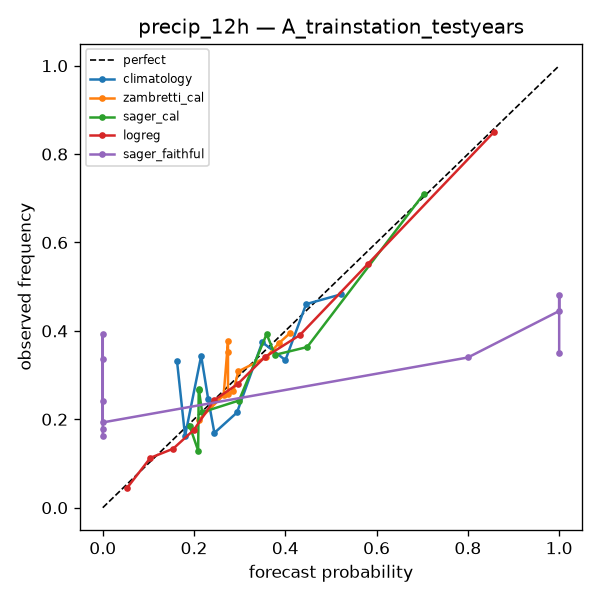
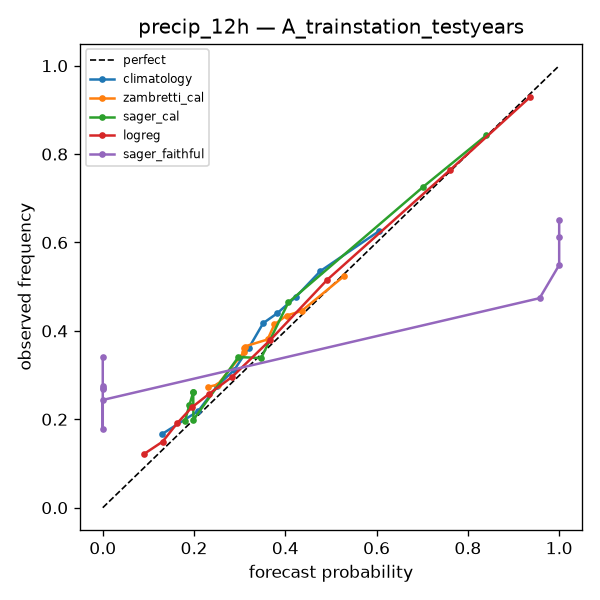
Milestone 1: 52-station dataset + full baseline scores + report
Dataset: 3.5M train / 750k test examples, 52 stations x 1990-2024.
Headline (BSS vs station climatology, test years 2020-24): logreg
0.15-0.33; calibrated Sager +0.21 (6h) decaying to +0.05 (24h) on precip;
calibrated Zambretti ~0; persistence negative beyond 6h. Categorical
Heidke: Sager 0.12-0.16, Zambretti 0.05-0.06, persistence 0.23-0.28.
No leakage tripwires. Schema fix: empty station-years now write full
column set.

diff --git a/src/neosager/data/regularize.py b/src/neosager/data/regularize.py
@@ -39,7 +39,18 @@ def to_hourly(reports: pd.DataFrame, year: int, cfg: IngestCfg
     idx = pd.date_range(f"{year}-01-01", f"{year}-12-31 23:00",
                         freq="h", tz="UTC")
     if reports.empty:
+        # full schema even when empty — a column-less frame would poison
+        # cross-year concatenation with NaNs in the string columns
         hourly = pd.DataFrame(index=idx)
+        for c in _SCALARS + ["wind_dir_deg", "wind_speed_ms",
+                             "precip_1h_mm"]:
+            hourly[c] = np.nan
+        hourly["wind_variable"] = False
+        hourly["precip_trace"] = False
+        for c in ["aw_codes", "mw_codes", "au_precip_codes",
+                  "ga_cloud_types"]:
+            hourly[c] = ""
+        hourly["n_reports"] = 0
         return hourly, {"hours_expected": len(idx), "hours_with_data": 0,
                         "coverage_pressure": 0.0, "coverage_ma1": 0.0,
                         "coverage_wind": 0.0, "coverage_sky": 0.0,

diff --git a/src/neosager/dataset.py b/src/neosager/dataset.py
@@ -39,7 +39,15 @@ def load_station_hourly(cfg: Config, station: str) -> pd.DataFrame | None:
             frames.append(pd.read_parquet(p))
     if not frames:
         return None
-    return pd.concat(frames).sort_index()
+    out = pd.concat(frames).sort_index()
+    # normalize schema across years (older parquets from empty station-years
+    # can lack columns entirely -> NaNs after concat)
+    for c in ["aw_codes", "mw_codes", "au_precip_codes", "ga_cloud_types"]:
+        out[c] = out[c].fillna("") if c in out.columns else ""
+    for c, fill in [("precip_trace", False), ("wind_variable", False),
+                    ("n_reports", 0)]:
+        out[c] = out[c].fillna(fill) if c in out.columns else fill
+    return out
 
 
 def build_station_dataset(cfg: Config, station_row: dict,

diff --git a/reports/milestone1_report.md b/reports/milestone1_report.md
@@ -1,0 +1,200 @@
+# milestone1_report
+
+## Headline: BSS vs station climatology (cell A: train stations, [phone redacted])
+
+| target     |   climatology |   logreg |   persistence |   sager_cal |   sager_faithful |   zambretti_cal |
+|:-----------|--------------:|---------:|--------------:|------------:|-----------------:|----------------:|
+| pfall_12h  |         0.000 |    0.107 |        -0.608 |      -0.111 |          nan     |          -0.077 |
+| pfall_24h  |         0.000 |    0.064 |        -0.762 |      -0.115 |          nan     |          -0.096 |
+| pfall_6h   |         0.000 |    0.156 |        -0.918 |      -0.098 |          nan     |          -0.020 |
+| precip_12h |         0.000 |    0.232 |        -0.185 |       0.131 |           -0.481 |          -0.058 |
+| precip_24h |         0.000 |    0.149 |        -0.681 |       0.053 |           -0.610 |          -0.073 |
+| precip_6h  |         0.000 |    0.327 |         0.109 |       0.212 |           -0.602 |          -0.051 |
+| windup_12h |         0.000 |    0.324 |        -0.664 |       0.016 |           -1.039 |          -0.012 |
+| windup_24h |         0.000 |    0.283 |        -1.138 |       0.007 |           -1.100 |          -0.016 |
+| windup_6h  |         0.000 |    0.281 |        -0.362 |       0.014 |           -1.272 |          -0.008 |
+
+## Categorical skill (Heidke / Peirce)
+
+| cell                     | target   | model       |   brier |   bss |   auc |      n |   bss_lo |   bss_hi |   heidke |   peirce |
+|:-------------------------|:---------|:------------|--------:|------:|------:|-------:|---------:|---------:|---------:|---------:|
+| A_trainstation_testyears | cond_12h | persistence |     nan |   nan |   nan | 670280 |      nan |      nan |    0.279 |    0.273 |
+| A_trainstation_testyears | cond_12h | zambretti   |     nan |   nan |   nan | 667341 |      nan |      nan |    0.062 |    0.058 |
+| A_trainstation_testyears | cond_12h | sager       |     nan |   nan |   nan | 632314 |      nan |      nan |    0.145 |    0.157 |
+| A_trainstation_testyears | cond_24h | persistence |     nan |   nan |   nan | 670545 |      nan |      nan |    0.234 |    0.229 |
+| A_trainstation_testyears | cond_24h | zambretti   |     nan |   nan |   nan | 667606 |      nan |      nan |    0.046 |    0.043 |
+| A_trainstation_testyears | cond_24h | sager       |     nan |   nan |   nan | 632462 |      nan |      nan |    0.120 |    0.130 |
+| C_teststation_testyears  | cond_12h | persistence |     nan |   nan |   nan |  90276 |      nan |      nan |    0.266 |    0.263 |
+| C_teststation_testyears  | cond_12h | zambretti   |     nan |   nan |   nan |  90112 |      nan |      nan |    0.038 |    0.036 |
+| C_teststation_testyears  | cond_12h | sager       |     nan |   nan |   nan |  87254 |      nan |      nan |    0.116 |    0.128 |
+| C_teststation_testyears  | cond_24h | persistence |     nan |   nan |   nan |  90265 |      nan |      nan |    0.232 |    0.229 |
+| C_teststation_testyears  | cond_24h | zambretti   |     nan |   nan |   nan |  90103 |      nan |      nan |    0.038 |    0.036 |
+| C_teststation_testyears  | cond_24h | sager       |     nan |   nan |   nan |  87248 |      nan |      nan |    0.095 |    0.105 |
+| B_teststation_trainyears | cond_12h | persistence |     nan |   nan |   nan | 440463 |      nan |      nan |    0.195 |    0.185 |
+| B_teststation_trainyears | cond_12h | zambretti   |     nan |   nan |   nan | 435296 |      nan |      nan |    0.030 |    0.029 |
+| B_teststation_trainyears | cond_12h | sager       |     nan |   nan |   nan | 288422 |      nan |      nan |    0.118 |    0.133 |
+| B_teststation_trainyears | cond_24h | persistence |     nan |   nan |   nan | 442262 |      nan |      nan |    0.168 |    0.159 |
+| B_teststation_trainyears | cond_24h | zambretti   |     nan |   nan |   nan | 437079 |      nan |      nan |    0.027 |    0.026 |
+| B_teststation_trainyears | cond_24h | sager       |     nan |   nan |   nan | 289165 |      nan |      nan |    0.092 |    0.104 |
+
+## Reliability (headline cell)
+
+![](reports/figures/reliability_precip12_A_trainstation_testyears.png)
+
+## All cells (full table)
+
+| cell                     | target     | model          |   brier |    bss |   auc |      n |   bss_lo |   bss_hi |   heidke |   peirce |
+|:-------------------------|:-----------|:---------------|--------:|-------:|------:|-------:|---------:|---------:|---------:|---------:|
+| A_trainstation_testyears | precip_6h  | climatology    |   0.190 |  0.000 | 0.664 | 669057 |  nan     |  nan     |      nan |      nan |
+| A_trainstation_testyears | precip_6h  | persistence    |   0.169 |  0.109 | 0.721 | 669057 |  nan     |  nan     |      nan |      nan |
+| A_trainstation_testyears | precip_6h  | zambretti_cal  |   0.199 | -0.051 | 0.579 | 666221 |   -0.055 |   -0.046 |      nan |      nan |
+| A_trainstation_testyears | precip_6h  | sager_cal      |   0.151 |  0.212 | 0.771 | 631162 |    0.207 |    0.217 |      nan |      nan |
+| A_trainstation_testyears | precip_6h  | logreg         |   0.128 |  0.327 | 0.833 | 669057 |    0.323 |    0.332 |      nan |      nan |
+| A_trainstation_testyears | precip_6h  | sager_faithful |   0.307 | -0.602 | 0.682 | 631162 |  nan     |  nan     |      nan |      nan |
+| A_trainstation_testyears | precip_12h | climatology    |   0.219 |  0.000 | 0.666 | 669382 |  nan     |  nan     |      nan |      nan |
+| A_trainstation_testyears | precip_12h | persistence    |   0.260 | -0.185 | 0.668 | 669382 |  nan     |  nan     |      nan |      nan |
+| A_trainstation_testyears | precip_12h | zambretti_cal  |   0.232 | -0.058 | 0.585 | 666492 |   -0.063 |   -0.052 |      nan |      nan |
+| A_trainstation_testyears | precip_12h | sager_cal      |   0.192 |  0.131 | 0.730 | 631518 |    0.126 |    0.136 |      nan |      nan |
+| A_trainstation_testyears | precip_12h | logreg         |   0.168 |  0.232 | 0.793 | 669382 |    0.227 |    0.237 |      nan |      nan |
+| A_trainstation_testyears | precip_12h | sager_faithful |   0.326 | -0.481 | 0.658 | 631518 |  nan     |  nan     |      nan |      nan |
+| A_trainstation_testyears | precip_24h | climatology    |   0.228 |  0.000 | 0.676 | 668829 |  nan     |  nan     |      nan |      nan |
+| A_trainstation_testyears | precip_24h | persistence    |   0.384 | -0.681 | 0.629 | 668829 |  nan     |  nan     |      nan |      nan |
+| A_trainstation_testyears | precip_24h | zambretti_cal  |   0.245 | -0.073 | 0.587 | 666074 |   -0.079 |   -0.065 |      nan |      nan |
+| A_trainstation_testyears | precip_24h | sager_cal      |   0.216 |  0.053 | 0.696 | 631213 |    0.047 |    0.060 |      nan |      nan |
+| A_trainstation_testyears | precip_24h | logreg         |   0.194 |  0.149 | 0.765 | 668829 |    0.144 |    0.155 |      nan |      nan |
+| A_trainstation_testyears | precip_24h | sager_faithful |   0.368 | -0.610 | 0.637 | 631213 |  nan     |  nan     |      nan |      nan |
+| A_trainstation_testyears | windup_6h  | climatology    |   0.188 |  0.000 | 0.579 | 661937 |  nan     |  nan     |      nan |      nan |
+| A_trainstation_testyears | windup_6h  | persistence    |   0.256 | -0.362 | 0.500 | 661937 |  nan     |  nan     |      nan |      nan |
+| A_trainstation_testyears | windup_6h  | zambretti_cal  |   0.189 | -0.008 | 0.555 | 659133 |   -0.009 |   -0.007 |      nan |      nan |
+| A_trainstation_testyears | windup_6h  | sager_cal      |   0.183 |  0.014 | 0.601 | 629495 |    0.012 |    0.015 |      nan |      nan |
+| A_trainstation_testyears | windup_6h  | logreg         |   0.135 |  0.281 | 0.823 | 661937 |    0.277 |    0.285 |      nan |      nan |
+| A_trainstation_testyears | windup_6h  | sager_faithful |   0.422 | -1.272 | 0.500 | 629495 |  nan     |  nan     |      nan |      nan |
+| A_trainstation_testyears | windup_12h | climatology    |   0.234 |  0.000 | 0.578 | 663278 |  nan     |  nan     |      nan |      nan |
+| A_trainstation_testyears | windup_12h | persistence    |   0.389 | -0.664 | 0.500 | 663278 |  nan     |  nan     |      nan |      nan |
+| A_trainstation_testyears | windup_12h | zambretti_cal  |   0.236 | -0.012 | 0.542 | 660425 |   -0.013 |   -0.011 |      nan |      nan |
+| A_trainstation_testyears | windup_12h | sager_cal      |   0.230 |  0.016 | 0.601 | 630557 |    0.014 |    0.017 |      nan |      nan |
+| A_trainstation_testyears | windup_12h | logreg         |   0.158 |  0.324 | 0.832 | 663278 |    0.320 |    0.328 |      nan |      nan |
+| A_trainstation_testyears | windup_12h | sager_faithful |   0.476 | -1.039 | 0.488 | 630557 |  nan     |  nan     |      nan |      nan |
+| A_trainstation_testyears | windup_24h | climatology    |   0.245 |  0.000 | 0.580 | 662910 |  nan     |  nan     |      nan |      nan |
+| A_trainstation_testyears | windup_24h | persistence    |   0.523 | -1.138 | 0.500 | 662910 |  nan     |  nan     |      nan |      nan |
+| A_trainstation_testyears | windup_24h | zambretti_cal  |   0.249 | -0.016 | 0.537 | 660165 |   -0.017 |   -0.015 |      nan |      nan |
+| A_trainstation_testyears | windup_24h | sager_cal      |   0.243 |  0.007 | 0.592 | 630378 |    0.006 |    0.009 |      nan |      nan |
+| A_trainstation_testyears | windup_24h | logreg         |   0.175 |  0.283 | 0.811 | 662910 |    0.280 |    0.287 |      nan |      nan |
+| A_trainstation_testyears | windup_24h | sager_faithful |   0.514 | -1.100 | 0.493 | 630378 |  nan     |  nan     |      nan |      nan |
+| A_trainstation_testyears | pfall_6h   | climatology    |   0.105 |  0.000 | 0.788 | 667575 |  nan     |  nan     |      nan |      nan |
+| A_trainstation_testyears | pfall_6h   | persistence    |   0.202 | -0.918 | 0.695 | 667575 |  nan     |  nan     |      nan |      nan |
+| A_trainstation_testyears | pfall_6h   | zambretti_cal  |   0.108 | -0.020 | 0.694 | 664824 |   -0.024 |   -0.016 |      nan |      nan |
+| A_trainstation_testyears | pfall_6h   | sager_cal      |   0.116 | -0.098 | 0.656 | 629889 |   -0.102 |   -0.092 |      nan |      nan |
+| A_trainstation_testyears | pfall_6h   | logreg         |   0.089 |  0.156 | 0.851 | 667575 |    0.152 |    0.160 |      nan |      nan |
+| A_trainstation_testyears | pfall_12h  | climatology    |   0.169 |  0.000 | 0.737 | 668217 |  nan     |  nan     |      nan |      nan |
+| A_trainstation_testyears | pfall_12h  | persistence    |   0.272 | -0.608 | 0.622 | 668217 |  nan     |  nan     |      nan |      nan |
+| A_trainstation_testyears | pfall_12h  | zambretti_cal  |   0.182 | -0.077 | 0.634 | 665424 |   -0.081 |   -0.073 |      nan |      nan |
+| A_trainstation_testyears | pfall_12h  | sager_cal      |   0.188 | -0.111 | 0.624 | 630539 |   -0.116 |   -0.105 |      nan |      nan |
+| A_trainstation_testyears | pfall_12h  | logreg         |   0.151 |  0.107 | 0.790 | 668217 |    0.103 |    0.111 |      nan |      nan |
+| A_trainstation_testyears | pfall_24h  | climatology    |   0.210 |  0.000 | 0.717 | 667597 |  nan     |  nan     |      nan |      nan |
+| A_trainstation_testyears | pfall_24h  | persistence    |   0.370 | -0.762 | 0.587 | 667597 |  nan     |  nan     |      nan |      nan |
+| A_trainstation_testyears | pfall_24h  | zambretti_cal  |   0.230 | -0.096 | 0.627 | 664978 |   -0.101 |   -0.091 |      nan |      nan |
+| A_trainstation_testyears | pfall_24h  | sager_cal      |   0.234 | -0.115 | 0.617 | 630225 |   -0.122 |   -0.109 |      nan |      nan |
+| A_trainstation_testyears | pfall_24h  | logreg         |   0.196 |  0.064 | 0.756 | 667597 |    0.059 |    0.069 |      nan |      nan |
+| C_teststation_testyears  | precip_6h  | climatology    |   0.203 |  0.000 | 0.597 |  90203 |  nan     |  nan     |      nan |      nan |
+| C_teststation_testyears  | precip_6h  | persistence    |   0.179 |  0.120 | 0.715 |  90203 |  nan     |  nan     |      nan |      nan |
+| C_teststation_testyears  | precip_6h  | zambretti_cal  |   0.211 | -0.038 | 0.525 |  90044 |  nan     |  nan     |      nan |      nan |
+| C_teststation_testyears  | precip_6h  | sager_cal      |   0.165 |  0.193 | 0.742 |  87193 |  nan     |  nan     |      nan |      nan |
+| C_teststation_testyears  | precip_6h  | logreg         |   0.140 |  0.310 | 0.812 |  90203 |  nan     |  nan     |      nan |      nan |
+| C_teststation_testyears  | precip_6h  | sager_faithful |   0.363 | -0.773 | 0.635 |  87193 |  nan     |  nan     |      nan |      nan |
+| C_teststation_testyears  | precip_12h | climatology    |   0.238 |  0.000 | 0.593 |  90234 |  nan     |  nan     |      nan |      nan |
+| C_teststation_testyears  | precip_12h | persistence    |   0.278 | -0.169 | 0.661 |  90234 |  nan     |  nan     |      nan |      nan |
+| C_teststation_testyears  | precip_12h | zambretti_cal  |   0.245 | -0.030 | 0.538 |  90072 |  nan     |  nan     |      nan |      nan |
+| C_teststation_testyears  | precip_12h | sager_cal      |   0.208 |  0.129 | 0.696 |  87217 |  nan     |  nan     |      nan |      nan |
+| C_teststation_testyears  | precip_12h | logreg         |   0.186 |  0.219 | 0.763 |  90234 |  nan     |  nan     |      nan |      nan |
+| C_teststation_testyears  | precip_12h | sager_faithful |   0.377 | -0.578 | 0.616 |  87217 |  nan     |  nan     |      nan |      nan |
+| C_teststation_testyears  | precip_24h | climatology    |   0.247 |  0.000 | 0.600 |  90199 |  nan     |  nan     |      nan |      nan |
+| C_teststation_testyears  | precip_24h | persistence    |   0.414 | -0.676 | 0.622 |  90199 |  nan     |  nan     |      nan |      nan |
+| C_teststation_testyears  | precip_24h | zambretti_cal  |   0.253 | -0.023 | 0.549 |  90037 |  nan     |  nan     |      nan |      nan |
+| C_teststation_testyears  | precip_24h | sager_cal      |   0.227 |  0.079 | 0.665 |  87190 |  nan     |  nan     |      nan |      nan |
+| C_teststation_testyears  | precip_24h | logreg         |   0.211 |  0.144 | 0.727 |  90199 |  nan     |  nan     |      nan |      nan |
+| C_teststation_testyears  | precip_24h | sager_faithful |   0.406 | -0.642 | 0.602 |  87190 |  nan     |  nan     |      nan |      nan |
+| C_teststation_testyears  | windup_6h  | climatology    |   0.191 |  0.000 | 0.572 |  89920 |  nan     |  nan     |      nan |      nan |
+| C_teststation_testyears  | windup_6h  | persistence    |   0.263 | -0.371 | 0.500 |  89920 |  nan     |  nan     |      nan |      nan |
+| C_teststation_testyears  | windup_6h  | zambretti_cal  |   0.193 | -0.006 | 0.558 |  89761 |  nan     |  nan     |      nan |      nan |
+| C_teststation_testyears  | windup_6h  | sager_cal      |   0.185 |  0.020 | 0.613 |  87108 |  nan     |  nan     |      nan |      nan |
+| C_teststation_testyears  | windup_6h  | logreg         |   0.140 |  0.267 | 0.810 |  89920 |  nan     |  nan     |      nan |      nan |
+| C_teststation_testyears  | windup_6h  | sager_faithful |   0.437 | -1.314 | 0.507 |  87108 |  nan     |  nan     |      nan |      nan |
+| C_teststation_testyears  | windup_12h | climatology    |   0.236 |  0.000 | 0.574 |  89984 |  nan     |  nan     |      nan |      nan |
+| C_teststation_testyears  | windup_12h | persistence    |   0.397 | -0.687 | 0.500 |  89984 |  nan     |  nan     |      nan |      nan |
+| C_teststation_testyears  | windup_12h | zambretti_cal  |   0.239 | -0.013 | 0.541 |  89822 |  nan     |  nan     |      nan |      nan |
+| C_teststation_testyears  | windup_12h | sager_cal      |   0.230 |  0.022 | 0.611 |  87162 |  nan     |  nan     |      nan |      nan |
+| C_teststation_testyears  | windup_12h | logreg         |   0.165 |  0.298 | 0.817 |  89984 |  nan     |  nan     |      nan |      nan |
+| C_teststation_testyears  | windup_12h | sager_faithful |   0.493 | -1.101 | 0.480 |  87162 |  nan     |  nan     |      nan |      nan |
+| C_teststation_testyears  | windup_24h | climatology    |   0.244 |  0.000 | 0.576 |  89952 |  nan     |  nan     |      nan |      nan |
+| C_teststation_testyears  | windup_24h | persistence    |   0.536 | -1.196 | 0.500 |  89952 |  nan     |  nan     |      nan |      nan |
+| C_teststation_testyears  | windup_24h | zambretti_cal  |   0.249 | -0.019 | 0.531 |  89790 |  nan     |  nan     |      nan |      nan |
+| C_teststation_testyears  | windup_24h | sager_cal      |   0.242 |  0.012 | 0.604 |  87134 |  nan     |  nan     |      nan |      nan |
+| C_teststation_testyears  | windup_24h | logreg         |   0.181 |  0.258 | 0.801 |  89952 |  nan     |  nan     |      nan |      nan |
+| C_teststation_testyears  | windup_24h | sager_faithful |   0.534 | -1.181 | 0.474 |  87134 |  nan     |  nan     |      nan |      nan |
+| C_teststation_testyears  | pfall_6h   | climatology    |   0.137 |  0.000 | 0.689 |  90142 |  nan     |  nan     |      nan |      nan |
+| C_teststation_testyears  | pfall_6h   | persistence    |   0.239 | -0.744 | 0.683 |  90142 |  nan     |  nan     |      nan |      nan |
+| C_teststation_testyears  | pfall_6h   | zambretti_cal  |   0.133 |  0.029 | 0.680 |  89984 |  nan     |  nan     |      nan |      nan |
+| C_teststation_testyears  | pfall_6h   | sager_cal      |   0.139 | -0.024 | 0.673 |  87140 |  nan     |  nan     |      nan |      nan |
+| C_teststation_testyears  | pfall_6h   | logreg         |   0.111 |  0.188 | 0.832 |  90142 |  nan     |  nan     |      nan |      nan |
+| C_teststation_testyears  | pfall_12h  | climatology    |   0.211 |  0.000 | 0.633 |  90188 |  nan     |  nan     |      nan |      nan |
+| C_teststation_testyears  | pfall_12h  | persistence    |   0.330 | -0.567 | 0.601 |  90188 |  nan     |  nan     |      nan |      nan |
+| C_teststation_testyears  | pfall_12h  | zambretti_cal  |   0.214 | -0.016 | 0.630 |  90028 |  nan     |  nan     |      nan |      nan |
+| C_teststation_testyears  | pfall_12h  | sager_cal      |   0.216 | -0.025 | 0.641 |  87177 |  nan     |  nan     |      nan |      nan |
+| C_teststation_testyears  | pfall_12h  | logreg         |   0.173 |  0.179 | 0.781 |  90188 |  nan     |  nan     |      nan |      nan |
+| C_teststation_testyears  | pfall_24h  | climatology    |   0.237 |  0.000 | 0.627 |  90144 |  nan     |  nan     |      nan |      nan |
+| C_teststation_testyears  | pfall_24h  | persistence    |   0.428 | -0.803 | 0.570 |  90144 |  nan     |  nan     |      nan |      nan |
+| C_teststation_testyears  | pfall_24h  | zambretti_cal  |   0.243 | -0.023 | 0.633 |  89984 |  nan     |  nan     |      nan |      nan |
+| C_teststation_testyears  | pfall_24h  | sager_cal      |   0.243 | -0.024 | 0.643 |  87141 |  nan     |  nan     |      nan |      nan |
+| C_teststation_testyears  | pfall_24h  | logreg         |   0.206 |  0.133 | 0.743 |  90144 |  nan     |  nan     |      nan |      nan |
+| B_teststation_trainyears | precip_6h  | climatology    |   0.175 |  0.000 | 0.634 | 440399 |  nan     |  nan     |      nan |      nan |
+| B_teststation_trainyears | precip_6h  | persistence    |   0.179 | -0.021 | 0.647 | 440399 |  nan     |  nan     |      nan |      nan |
+| B_teststation_trainyears | precip_6h  | zambretti_cal  |   0.185 | -0.058 | 0.534 | 435257 |  nan     |  nan     |      nan |      nan |
+| B_teststation_trainyears | precip_6h  | sager_cal      |   0.145 |  0.183 | 0.754 | 287998 |  nan     |  nan     |      nan |      nan |
+| B_teststation_trainyears | precip_6h  | logreg         |   0.139 |  0.206 | 0.781 | 440399 |  nan     |  nan     |      nan |      nan |
+| B_teststation_trainyears | precip_6h  | sager_faithful |   0.352 | -0.984 | 0.647 | 287998 |  nan     |  nan     |      nan |      nan |
+| B_teststation_trainyears | precip_12h | climatology    |   0.211 |  0.000 | 0.635 | 439628 |  nan     |  nan     |      nan |      nan |
+| B_teststation_trainyears | precip_12h | persistence    |   0.265 | -0.258 | 0.610 | 439628 |  nan     |  nan     |      nan |      nan |
+| B_teststation_trainyears | precip_12h | zambretti_cal  |   0.224 | -0.062 | 0.548 | 434503 |  nan     |  nan     |      nan |      nan |
+| B_teststation_trainyears | precip_12h | sager_cal      |   0.186 |  0.122 | 0.712 | 287671 |  nan     |  nan     |      nan |      nan |
+| B_teststation_trainyears | precip_12h | logreg         |   0.180 |  0.145 | 0.744 | 439628 |  nan     |  nan     |      nan |      nan |
+| B_teststation_trainyears | precip_12h | sager_faithful |   0.358 | -0.685 | 0.631 | 287671 |  nan     |  nan     |      nan |      nan |
+| B_teststation_trainyears | precip_24h | climatology    |   0.233 |  0.000 | 0.642 | 438130 |  nan     |  nan     |      nan |      nan |
+| B_teststation_trainyears | precip_24h | persistence    |   0.392 | -0.684 | 0.582 | 438130 |  nan     |  nan     |      nan |      nan |
+| B_teststation_trainyears | precip_24h | zambretti_cal  |   0.248 | -0.067 | 0.556 | 433730 |  nan     |  nan     |      nan |      nan |
+| B_teststation_trainyears | precip_24h | sager_cal      |   0.219 |  0.058 | 0.679 | 287694 |  nan     |  nan     |      nan |      nan |
+| B_teststation_trainyears | precip_24h | logreg         |   0.213 |  0.086 | 0.713 | 438130 |  nan     |  nan     |      nan |      nan |
+| B_teststation_trainyears | precip_24h | sager_faithful |   0.380 | -0.633 | 0.616 | 287694 |  nan     |  nan     |      nan |      nan |
+| B_teststation_trainyears | windup_6h  | climatology    |   0.182 |  0.000 | 0.582 | 437695 |  nan     |  nan     |      nan |      nan |
+| B_teststation_trainyears | windup_6h  | persistence    |   0.244 | -0.345 | 0.500 | 437695 |  nan     |  nan     |      nan |      nan |
+| B_teststation_trainyears | windup_6h  | zambretti_cal  |   0.184 | -0.012 | 0.545 | 433339 |  nan     |  nan     |      nan |      nan |
+| B_teststation_trainyears | windup_6h  | sager_cal      |   0.176 |  0.013 | 0.608 | 286980 |  nan     |  nan     |      nan |      nan |
+| B_teststation_trainyears | windup_6h  | logreg         |   0.148 |  0.183 | 0.769 | 437695 |  nan     |  nan     |      nan |      nan |
+| B_teststation_trainyears | windup_6h  | sager_faithful |   0.435 | -1.432 | 0.503 | 286980 |  nan     |  nan     |      nan |      nan |
+| B_teststation_trainyears | windup_12h | climatology    |   0.231 |  0.000 | 0.577 | 435791 |  nan     |  nan     |      nan |      nan |
+| B_teststation_trainyears | windup_12h | persistence    |   0.380 | -0.643 | 0.500 | 435791 |  nan     |  nan     |      nan |      nan |
+| B_teststation_trainyears | windup_12h | zambretti_cal  |   0.235 | -0.015 | 0.533 | 431443 |  nan     |  nan     |      nan |      nan |
+| B_teststation_trainyears | windup_12h | sager_cal      |   0.226 |  0.018 | 0.607 | 285819 |  nan     |  nan     |      nan |      nan |
+| B_teststation_trainyears | windup_12h | logreg         |   0.180 |  0.223 | 0.779 | 435791 |  nan     |  nan     |      nan |      nan |
+| B_teststation_trainyears | windup_12h | sager_faithful |   0.488 | -1.124 | 0.479 | 285819 |  nan     |  nan     |      nan |      nan |
+| B_teststation_trainyears | windup_24h | climatology    |   0.245 |  0.000 | 0.578 | 434235 |  nan     |  nan     |      nan |      nan |
+| B_teststation_trainyears | windup_24h | persistence    |   0.521 | -1.130 | 0.500 | 434235 |  nan     |  nan     |      nan |      nan |
+| B_teststation_trainyears | windup_24h | zambretti_cal  |   0.249 | -0.017 | 0.528 | 430397 |  nan     |  nan     |      nan |      nan |
+| B_teststation_trainyears | windup_24h | sager_cal      |   0.243 |  0.011 | 0.599 | 285702 |  nan     |  nan     |      nan |      nan |
+| B_teststation_trainyears | windup_24h | logreg         |   0.200 |  0.183 | 0.752 | 434235 |  nan     |  nan     |      nan |      nan |
+| B_teststation_trainyears | windup_24h | sager_faithful |   0.525 | -1.140 | 0.478 | 285702 |  nan     |  nan     |      nan |      nan |
+| B_teststation_trainyears | pfall_6h   | climatology    |   0.136 |  0.000 | 0.695 | 435103 |  nan     |  nan     |      nan |      nan |
+| B_teststation_trainyears | pfall_6h   | persistence    |   0.255 | -0.882 | 0.659 | 435103 |  nan     |  nan     |      nan |      nan |
+| B_teststation_trainyears | pfall_6h   | zambretti_cal  |   0.136 | -0.004 | 0.663 | 430430 |  nan     |  nan     |      nan |      nan |
+| B_teststation_trainyears | pfall_6h   | sager_cal      |   0.139 | -0.040 | 0.667 | 285081 |  nan     |  nan     |      nan |      nan |
+| B_teststation_trainyears | pfall_6h   | logreg         |   0.116 |  0.148 | 0.814 | 435103 |  nan     |  nan     |      nan |      nan |
+| B_teststation_trainyears | pfall_12h  | climatology    |   0.209 |  0.000 | 0.641 | 431511 |  nan     |  nan     |      nan |      nan |
+| B_teststation_trainyears | pfall_12h  | persistence    |   0.336 | -0.607 | 0.595 | 431511 |  nan     |  nan     |      nan |      nan |
+| B_teststation_trainyears | pfall_12h  | zambretti_cal  |   0.216 | -0.034 | 0.621 | 427253 |  nan     |  nan     |      nan |      nan |
+| B_teststation_trainyears | pfall_12h  | sager_cal      |   0.215 | -0.032 | 0.645 | 283166 |  nan     |  nan     |      nan |      nan |
+| B_teststation_trainyears | pfall_12h  | logreg         |   0.181 |  0.133 | 0.760 | 431511 |  nan     |  nan     |      nan |      nan |
+| B_teststation_trainyears | pfall_24h  | climatology    |   0.236 |  0.000 | 0.630 | 432462 |  nan     |  nan     |      nan |      nan |
+| B_teststation_trainyears | pfall_24h  | persistence    |   0.431 | -0.826 | 0.569 | 432462 |  nan     |  nan     |      nan |      nan |
+| B_teststation_trainyears | pfall_24h  | zambretti_cal  |   0.243 | -0.032 | 0.627 | 429258 |  nan     |  nan     |      nan |      nan |
+| B_teststation_trainyears | pfall_24h  | sager_cal      |   0.242 | -0.027 | 0.647 | 285328 |  nan     |  nan     |      nan |      nan |
+| B_teststation_trainyears | pfall_24h  | logreg         |   0.212 |  0.100 | 0.726 | 432462 |  nan     |  nan     |      nan |      nan |